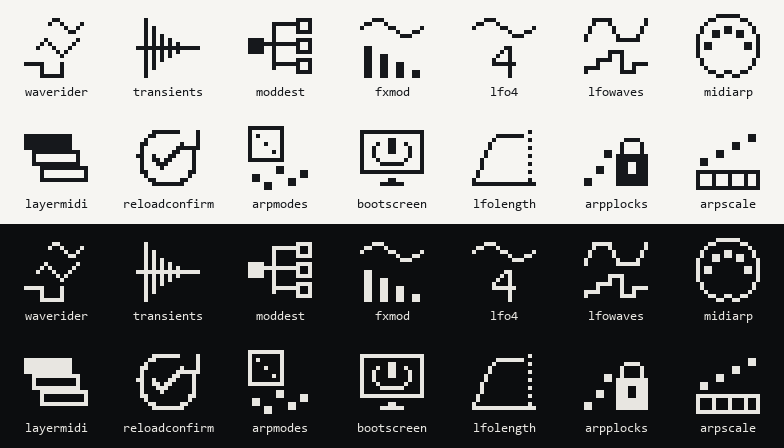
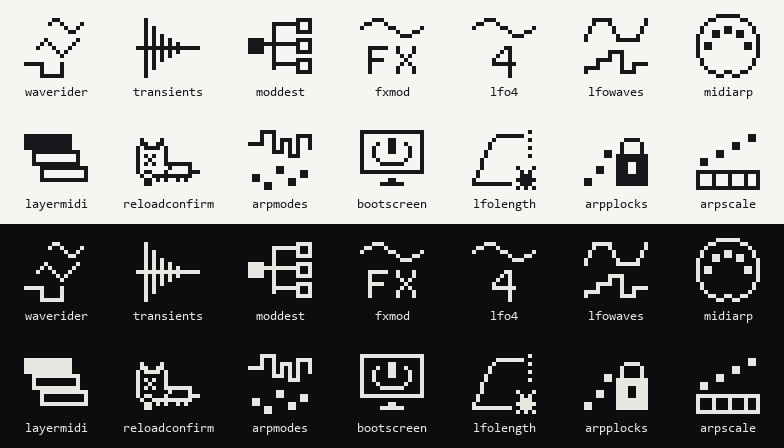
Glyphs, the owner's corrections: reloadconfirm is a cartoon cat squashed flat (X eye, tongue out), fxmod shows the letters FX under its LFO, arpmodes has a stepped random LFO in place of the die, and lfolength, the one bug fix, carries a small bug in its lower right corner (BUG_BADGE). A test checks

diff --git a/site/js/mods/glyphs.js b/site/js/mods/glyphs.js
@@ -5,10 +5,15 @@
  * of 16 characters, `#` lit and `.` dark. The SVG draws each run of lit pixels
  * as one <rect> filled with currentColor, so a glyph takes the text colour of
  * whatever holds it, in the light and the dark theme alike. Original art.
+ * A mod that fixes a factory bug carries a small bug in its lower right corner
+ * (BUG_BADGE, with a dark row and column round it).
  * `app/glyphs-page.js` puts them on the pages.
  */
 
 export const SIZE = 16;
+
+/** The bug in the lower right corner of a bug-fix mod's glyph: rows 10 to 15, columns 11 to 15. */
+export const BUG_BADGE = ["#...#", ".#.#.", ".###.", "#####", ".###.", "#.#.#"];
 
 export const GLYPHS = {
   // A wavetable seen in depth: a sine at the back turns into a square at the front.
@@ -68,7 +73,7 @@ export const GLYPHS = {
     "............####",
     "................",
   ],
-  // An LFO over the repeats of a delay.
+  // An LFO over the letters FX.
   fxmod: [
     "................",
     "...###..........",
@@ -78,14 +83,14 @@ export const GLYPHS = {
     "..........###...",
     "................",
     "................",
-    ".##.............",
-    ".##.............",
-    ".##..##.........",
-    ".##..##.........",
-    ".##..##..##.....",
-    ".##..##..##.....",
-    ".##..##..##..##.",
-    ".##..##..##..##.",
+    "..#####..#...#..",
+    "..#......#...#..",
+    "..#.......#.#...",
+    "..####.....#....",
+    "..#.......#.#...",
+    "..#......#...#..",
+    "..#......#...#..",
+    "................",
   ],
   // An LFO and the digit four.
   lfo4: [
@@ -163,36 +168,36 @@ export const GLYPHS = {
     "................",
     "................",
   ],
-  // The reload arrow round a check mark.
+  // A cartoon cat squashed flat: X eyes, tongue out, the body a pancake.
   reloadconfirm: [
     "................",
-    "....#######....#",
-    "...##..........#",
-    "..#............#",
-    ".##........#...#",
-    ".#........######",
-    ".#.......##...#.",
-    "##..#...##....#.",
-    ".#..##.##.....#.",
-    ".#...###......#.",
-    ".#....#.......#.",
-    ".##..........##.",
-    "..#..........#..",
-    "...##......##...",
-    "....########....",
+    "................",
+    "................",
+    ".#....#.........",
+    ".##..##.........",
+    "#.####.#........",
+    "#......#........",
+    "#.#.#..#........",
+    "#..#...#........",
+    "#.#.#..#######..",
+    "#.......#....#..",
+    "#.##...#.....###",
+    ".#..##########..",
+    "..##.#.#..#.#...",
+    "..##............",
     "................",
   ],
-  // A die, and arp notes out of order.
+  // A random LFO, stepped like sample and hold, and arp notes out of order.
   arpmodes: [
-    "#########.......",
-    "#.......#.......",
-    "#.#.....#.......",
-    "#.......#.......",
-    "#...#...#.......",
-    "#.......#.......",
-    "#.....#.#.......",
-    "#.......#.......",
-    "#########.......",
+    "................",
+    "...####.........",
+    "...#..#.....####",
+    "...#..#.###.#..#",
+    "####..#.#.#.#..#",
+    "......#.#.#.#..#",
+    "......###.#.#...",
+    "..........###...",
+    "................",
     "................",
     ".......##.......",
     ".......##....##.",
@@ -220,7 +225,7 @@ export const GLYPHS = {
     ".....######.....",
     "................",
   ],
-  // A one-shot LFO that rises, holds, and stops at the end marker.
+  // A one-shot LFO that rises, holds, and stops at the end marker; a bug fix.
   lfolength: [
     "................",
     "..............#.",
@@ -231,13 +236,13 @@ export const GLYPHS = {
     "...#............",
     "...#..........#.",
     "..#.............",
-    "..#...........#.",
     "..#.............",
-    ".#............#.",
-    ".#..............",
-    "#.............#.",
-    "################",
-    "................",
+    "..#........#...#",
+    ".#..........#.#.",
+    ".#..........###.",
+    "#..........#####",
+    "##########..###.",
+    "...........#.#.#",
   ],
   // Arp notes rising to a lock.
   arpplocks: [

diff --git a/test/test_js_glyphs.py b/test/test_js_glyphs.py
@@ -31,6 +31,21 @@ def test_every_offered_mod_has_a_16x16_glyph():
         assert sum(r.count("#") for r in rows) > 0, mid
 
 
+def test_the_bug_fixes_and_only_they_carry_the_bug():
+    src = (SITE / "js/mods/glyphs.js").read_text(encoding="utf-8")
+    badge = re.findall(r'"([.#]{5})"', src.split("export const BUG_BADGE = [", 1)[1].split("]", 1)[0])
+    assert len(badge) == 6
+    index = (SITE / "index.html").read_text(encoding="utf-8")
+    fixes = set(re.findall(r'<span class="mod-id">([a-z0-9]+)</span>',
+                           index.split('id="bug-fixes"', 1)[1].split("<h2", 1)[0]))
+    assert fixes, "the index lists no bug fixes"
+    for mid, rows in glyphs().items():
+        has = [r[11:] for r in rows[10:]] == badge
+        assert has == (mid in fixes), mid
+        if has:      # a dark row and column keep the bug apart from the rest of the glyph
+            assert rows[9][10:] == "......" and all(r[10] == "." for r in rows[9:]), mid
+
+
 def test_the_pages_name_known_glyphs_and_load_the_module():
     found = glyphs()
     shown = set()
